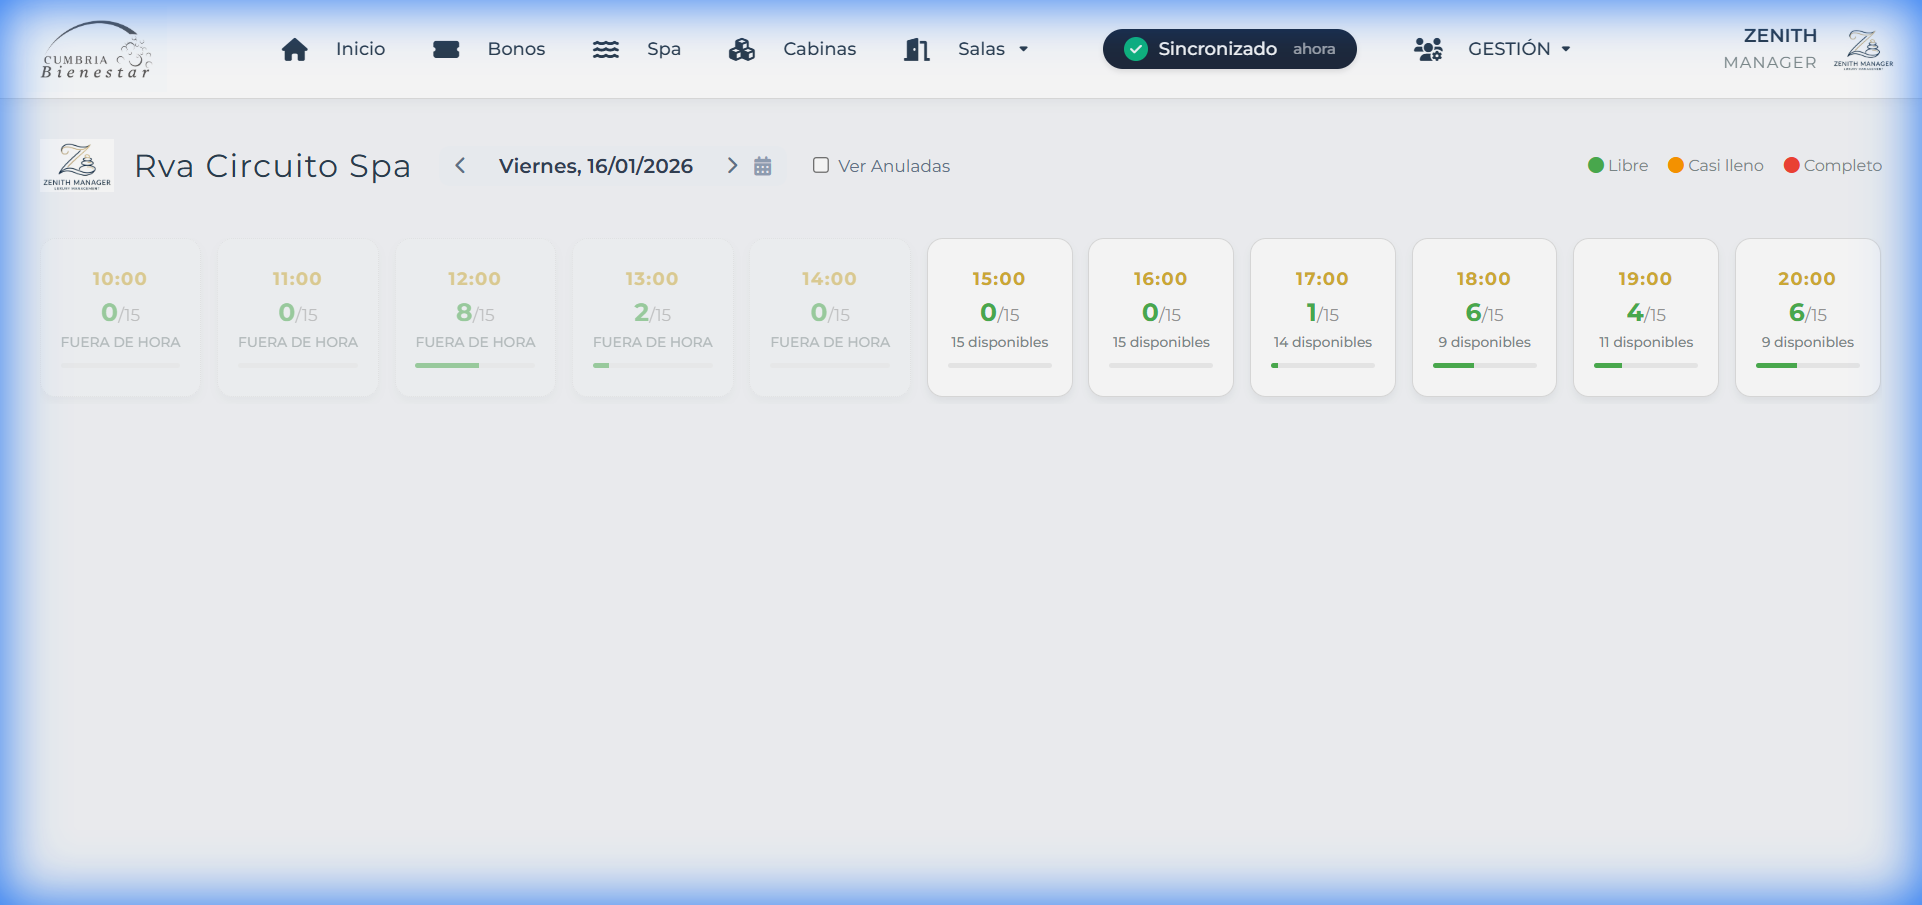
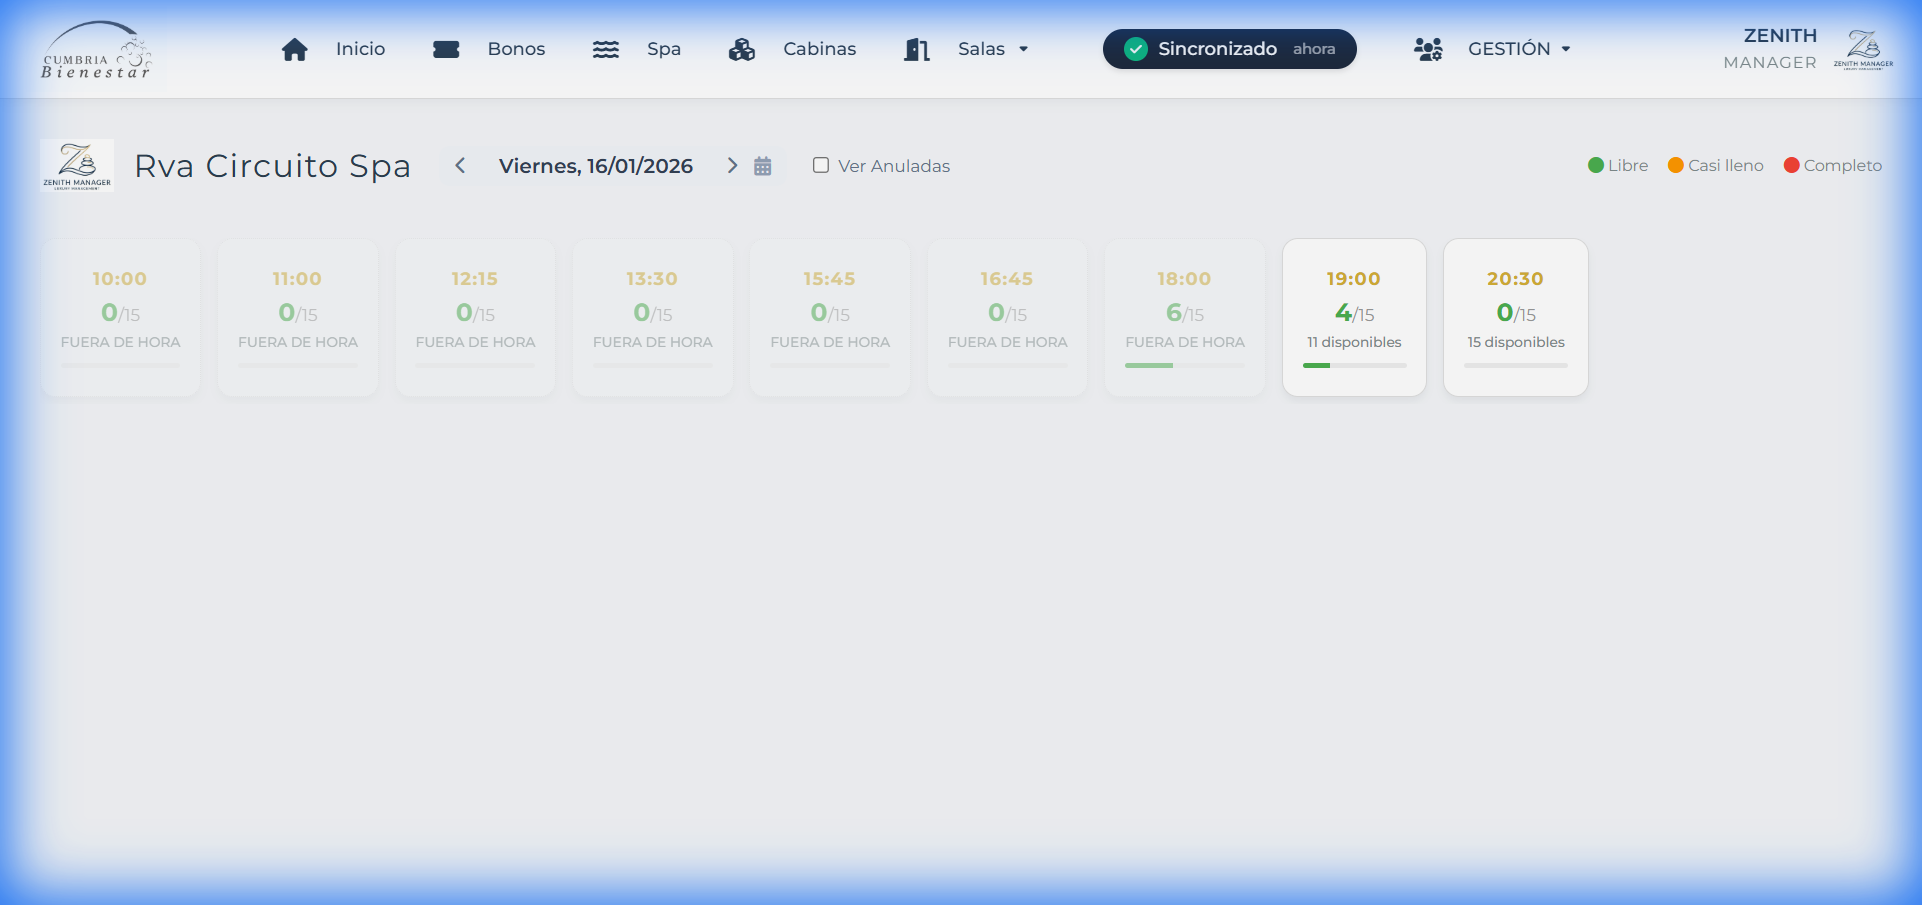
gfgsfdgsfd

diff --git a/reservas.html b/reservas.html
@@ -3005,14 +3005,32 @@
                 console.log("[DEBUG] renderSlots", { dateString, dayName, hasSchedules: !!window.SPA_SCHEDULES, schedules: window.SPA_SCHEDULES });
 
                 if (window.SPA_SCHEDULES && window.SPA_SCHEDULES[dayName] && window.SPA_SCHEDULES[dayName].length > 0) {
-                    slots = window.SPA_SCHEDULES[dayName];
+                    slots = [...window.SPA_SCHEDULES[dayName]];
                 } else {
                     console.warn("[DEBUG] Using fallback slots for", dayName);
-                    slots = isSunday ? currentModule.slotsSun : currentModule.slotsWeek;
+                    slots = isSunday ? [...currentModule.slotsSun] : [...currentModule.slotsWeek];
                 }
             } else {
-                slots = isSunday ? currentModule.slotsSun : currentModule.slotsWeek;
+                slots = isSunday ? [...currentModule.slotsSun] : [...currentModule.slotsWeek];
             }
+
+            // SAFETY NET: Add slots from existing bookings if they are not in the config (Legacy protection)
+            // This ensures we never "lose" a reservation just because the schedule changed
+            const existingTimes = [...new Set(currentData.map(r => r.hora).filter(h => h))];
+            existingTimes.forEach(time => {
+                if (!slots.includes(time)) {
+                    console.log(`[SAFETY] Adding legacy slot ${time} to view because it has bookings.`);
+                    slots.push(time);
+                }
+            });
+
+            // Sort slots chronologically
+            slots.sort((a, b) => {
+                const [h1, m1] = a.split(':').map(Number);
+                const [h2, m2] = b.split(':').map(Number);
+                return (h1 * 60 + m1) - (h2 * 60 + m2);
+            });
+
             const container = document.getElementById("slots-container");
 
             const dateBlockedSlots = (spaConfig.blockedSlots && spaConfig.blockedSlots[dateString]) || [];
